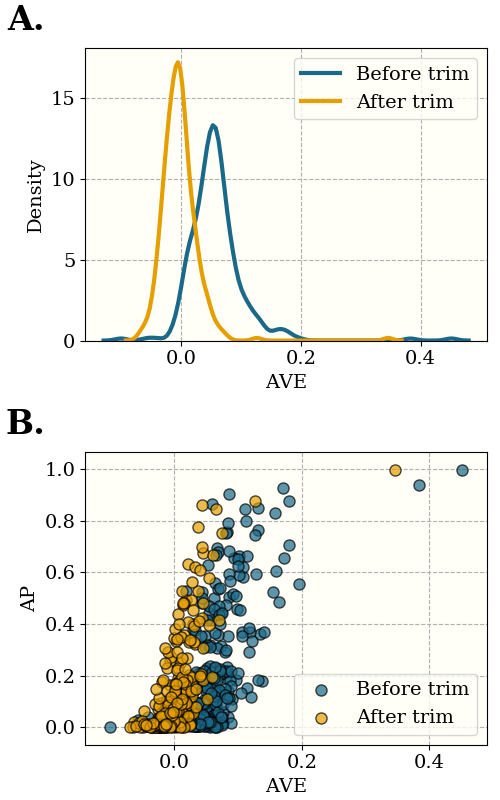
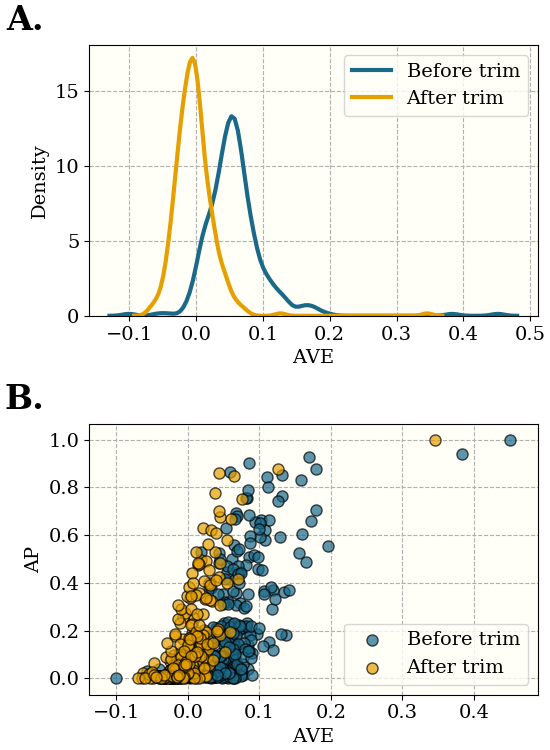
fig size

diff --git a/code/replicate_AVE_figures.py b/code/replicate_AVE_figures.py
@@ -32,8 +32,8 @@ sizes_after_trim = np.load('processed_data/replicate_AVE/sizes_after_trim.npy', 
 
 
 fig, ax = plt.subplots(2,1)
-fig.set_figheight(8)
-fig.set_figwidth(5)
+fig.set_figheight(7.5)
+fig.set_figwidth(5.5)
 plt.setp(ax, ylim=(-0.05,1.05))
 
 ax[0].scatter(aves_before_trim, auroc_before_trim, c=targets, alpha=utils.ALPHA)

diff --git a/code/graph_cluster_figures.py b/code/graph_cluster_figures.py
@@ -27,8 +27,8 @@ cutoffs = np.load('processed_data/graph_cluster/cutoffs.npy', allow_pickle=True)
 
 
 fig, ax = plt.subplots(2,1)
-fig.set_figheight(8)
-fig.set_figwidth(5)
+fig.set_figheight(7.5)
+fig.set_figwidth(5.5)
 
 kdeplot(aves_before_trim, ax=ax[0], label='Before trim')
 kdeplot(aves_after_trim, ax=ax[0], label='After trim')
